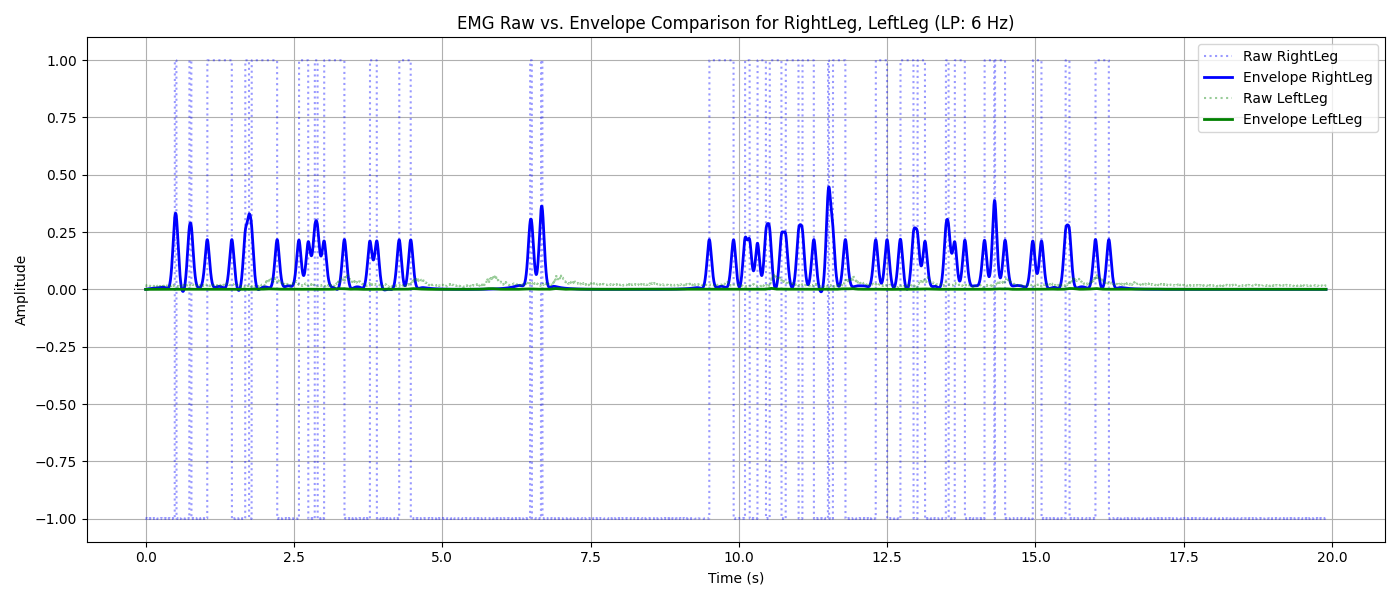
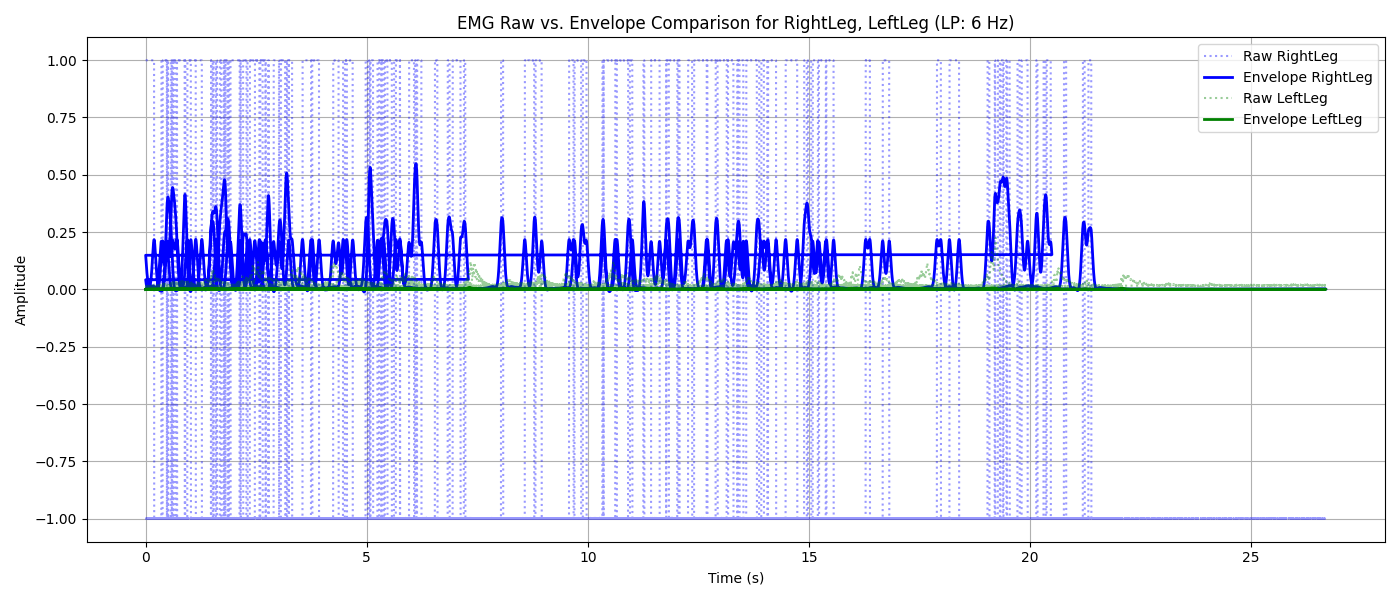
intermediate commit

Changed region(s): [[0.0921, 0.09, 0.9521, 0.87], [0.8907, 0.84, 0.9521, 0.87], [0.3993, 0.9, 0.43, 0.93]]

diff --git a/src/plot_fsr_hip.py b/src/plot_fsr_hip.py
@@ -1,34 +1,54 @@
 import pandas as pd
 import matplotlib.pyplot as plt
+import numpy as np
 
 # --- Load CSV ---
 csv_path = "data/raw/FSR/converted_data3.csv"  # <- Replace with your actual file path
 df = pd.read_csv(csv_path)
+
+# Set your sampling rate (Hz)
+fs = 1000  # Change this to your actual sampling rate
+
+# Create a time array
+time = np.arange(len(df)) / fs
 
 # --- Plot Settings ---
 plt.figure(figsize=(12, 6))
 
 # --- FSR Data Plot ---
 plt.subplot(2, 1, 1)
-# plt.plot(df['fsr_R1'], label='FSR Right 1')
-# plt.plot(df['fsr_R2'], label='FSR Right 2')
-plt.plot(df['fsr_L1'], label='FSR Left 1')
-plt.plot(df['fsr_L2'], label='FSR Left 2')
+plt.plot(time, df['fsr_R1'], label='FSR Right 1')
+plt.plot(time, df['fsr_R2'], label='FSR Right 2')
+# plt.plot(time, df['fsr_L1'], label='FSR Left 1')
+# plt.plot(time, df['fsr_L2'], label='FSR Left 2')
 plt.title('FSR Sensor Readings')
-plt.xlabel('Sample')
+plt.xlabel('Time')
 plt.ylabel('FSR Value')
 plt.legend()
 plt.grid(True)
+plt.locator_params(axis='x', nbins=40)  # Increase number of x-ticks
 
-# --- Hip Angle Plot ---
 plt.subplot(2, 1, 2)
-plt.plot(df['thighDeg_RH'], label='Right Hip Angle')
-plt.plot(df['thighDeg_LH'], label='Left Hip Angle')
-plt.title('Hip Angles')
-plt.xlabel('Sample')
-plt.ylabel('Angle (degrees)')
+# plt.plot(df['fsr_R1'], label='FSR Right 1')
+# plt.plot(df['fsr_R2'], label='FSR Right 2')
+plt.plot(time, df['fsr_L1'], label='FSR Left 1')
+plt.plot(time, df['fsr_L2'], label='FSR Left 2')
+plt.title('FSR Sensor Readings')
+plt.xlabel('Time')
+plt.ylabel('FSR Value')
 plt.legend()
 plt.grid(True)
+plt.locator_params(axis='x', nbins=40)  # Increase number of x-ticks
+
+# --- Hip Angle Plot ---
+# plt.subplot(2, 1, 2)
+# plt.plot(df['thighDeg_RH'], label='Right Hip Angle')
+# plt.plot(df['thighDeg_LH'], label='Left Hip Angle')
+# plt.title('Hip Angles')
+# plt.xlabel('Sample')
+# plt.ylabel('Angle (degrees)')
+# plt.legend()
+# plt.grid(True)
 
 plt.tight_layout()
 plt.show()

diff --git a/src/plot_fsr_gait.py b/src/plot_fsr_gait.py
@@ -1,0 +1,55 @@
+import pandas as pd
+import matplotlib.pyplot as plt
+import numpy as np
+
+# --- Load CSV ---
+csv_path = "data/raw/FSR/converted_data3.csv"  # <- Replace with your actual file path
+df = pd.read_csv(csv_path)
+
+# Set your sampling rate (Hz)
+fs = 1000  # Change this to your actual sampling rate
+
+# Create a time array
+time = np.arange(len(df)) / fs
+
+FSR_FRONT_THRESHOLD = 2700  # adjust as needed
+FSR_HEEL_THRESHOLD = 2700   # adjust as needed
+
+# Get FSR data for left leg
+fsr_front = df['fsr_L1']
+fsr_heel = df['fsr_L2']
+
+# Gait phase detection
+gait_phase = np.zeros(len(df), dtype=int)
+for i in range(len(df)):
+    if fsr_front[i] < FSR_FRONT_THRESHOLD and fsr_heel[i] > FSR_HEEL_THRESHOLD:
+        gait_phase[i] = 1  # INITIAL_CONTACT
+    elif fsr_front[i] > FSR_FRONT_THRESHOLD and fsr_heel[i] > FSR_HEEL_THRESHOLD:
+        gait_phase[i] = 2  # MID_STANCE
+    elif fsr_front[i] > FSR_FRONT_THRESHOLD and fsr_heel[i] < FSR_HEEL_THRESHOLD:
+        gait_phase[i] = 3  # TERMINAL_STANCE
+    else:
+        gait_phase[i] = 4  # SWING
+
+# --- Plot Settings ---
+plt.subplot(3, 1, 1)
+plt.plot(time, fsr_front, label='FSR Left Front (L1)')
+plt.plot(time, fsr_heel, label='FSR Left Heel (L2)')
+plt.title('FSR Left Sensors')
+plt.xlabel('Time (s)')
+plt.ylabel('FSR Value')
+plt.legend()
+plt.grid(True)
+plt.xticks(np.arange(0, time[-1]+1, 1))  # 1-second resolution
+
+plt.subplot(3, 1, 2)
+plt.plot(time, gait_phase, drawstyle='steps-post')
+plt.yticks([1,2,3,4], ['IC', 'Mid Stance', 'Terminal Stance', 'Swing'])
+plt.title('Detected Gait Phase (Left Leg)')
+plt.xlabel('Time (s)')
+plt.ylabel('Gait Phase')
+plt.grid(True)
+plt.xticks(np.arange(0, time[-1]+1, 1))  # 1-second resolution
+
+plt.tight_layout()
+plt.show()

diff --git a/src/config.py b/src/config.py
@@ -18,7 +18,7 @@ LOWPASS_ENVELOPE_FILTER_PARAMS = {
 }
 
 # --- Data File and Column Configuration ---
-DEFAULT_DATA_FILEPATH = "data/raw/converted_data7.csv"
+DEFAULT_DATA_FILEPATH = "data/raw/converted_data8.csv"
 EMG_COLUMNS = {
     "RightLeg": "emg_R1",
     "LeftLeg": "emg_L1"
